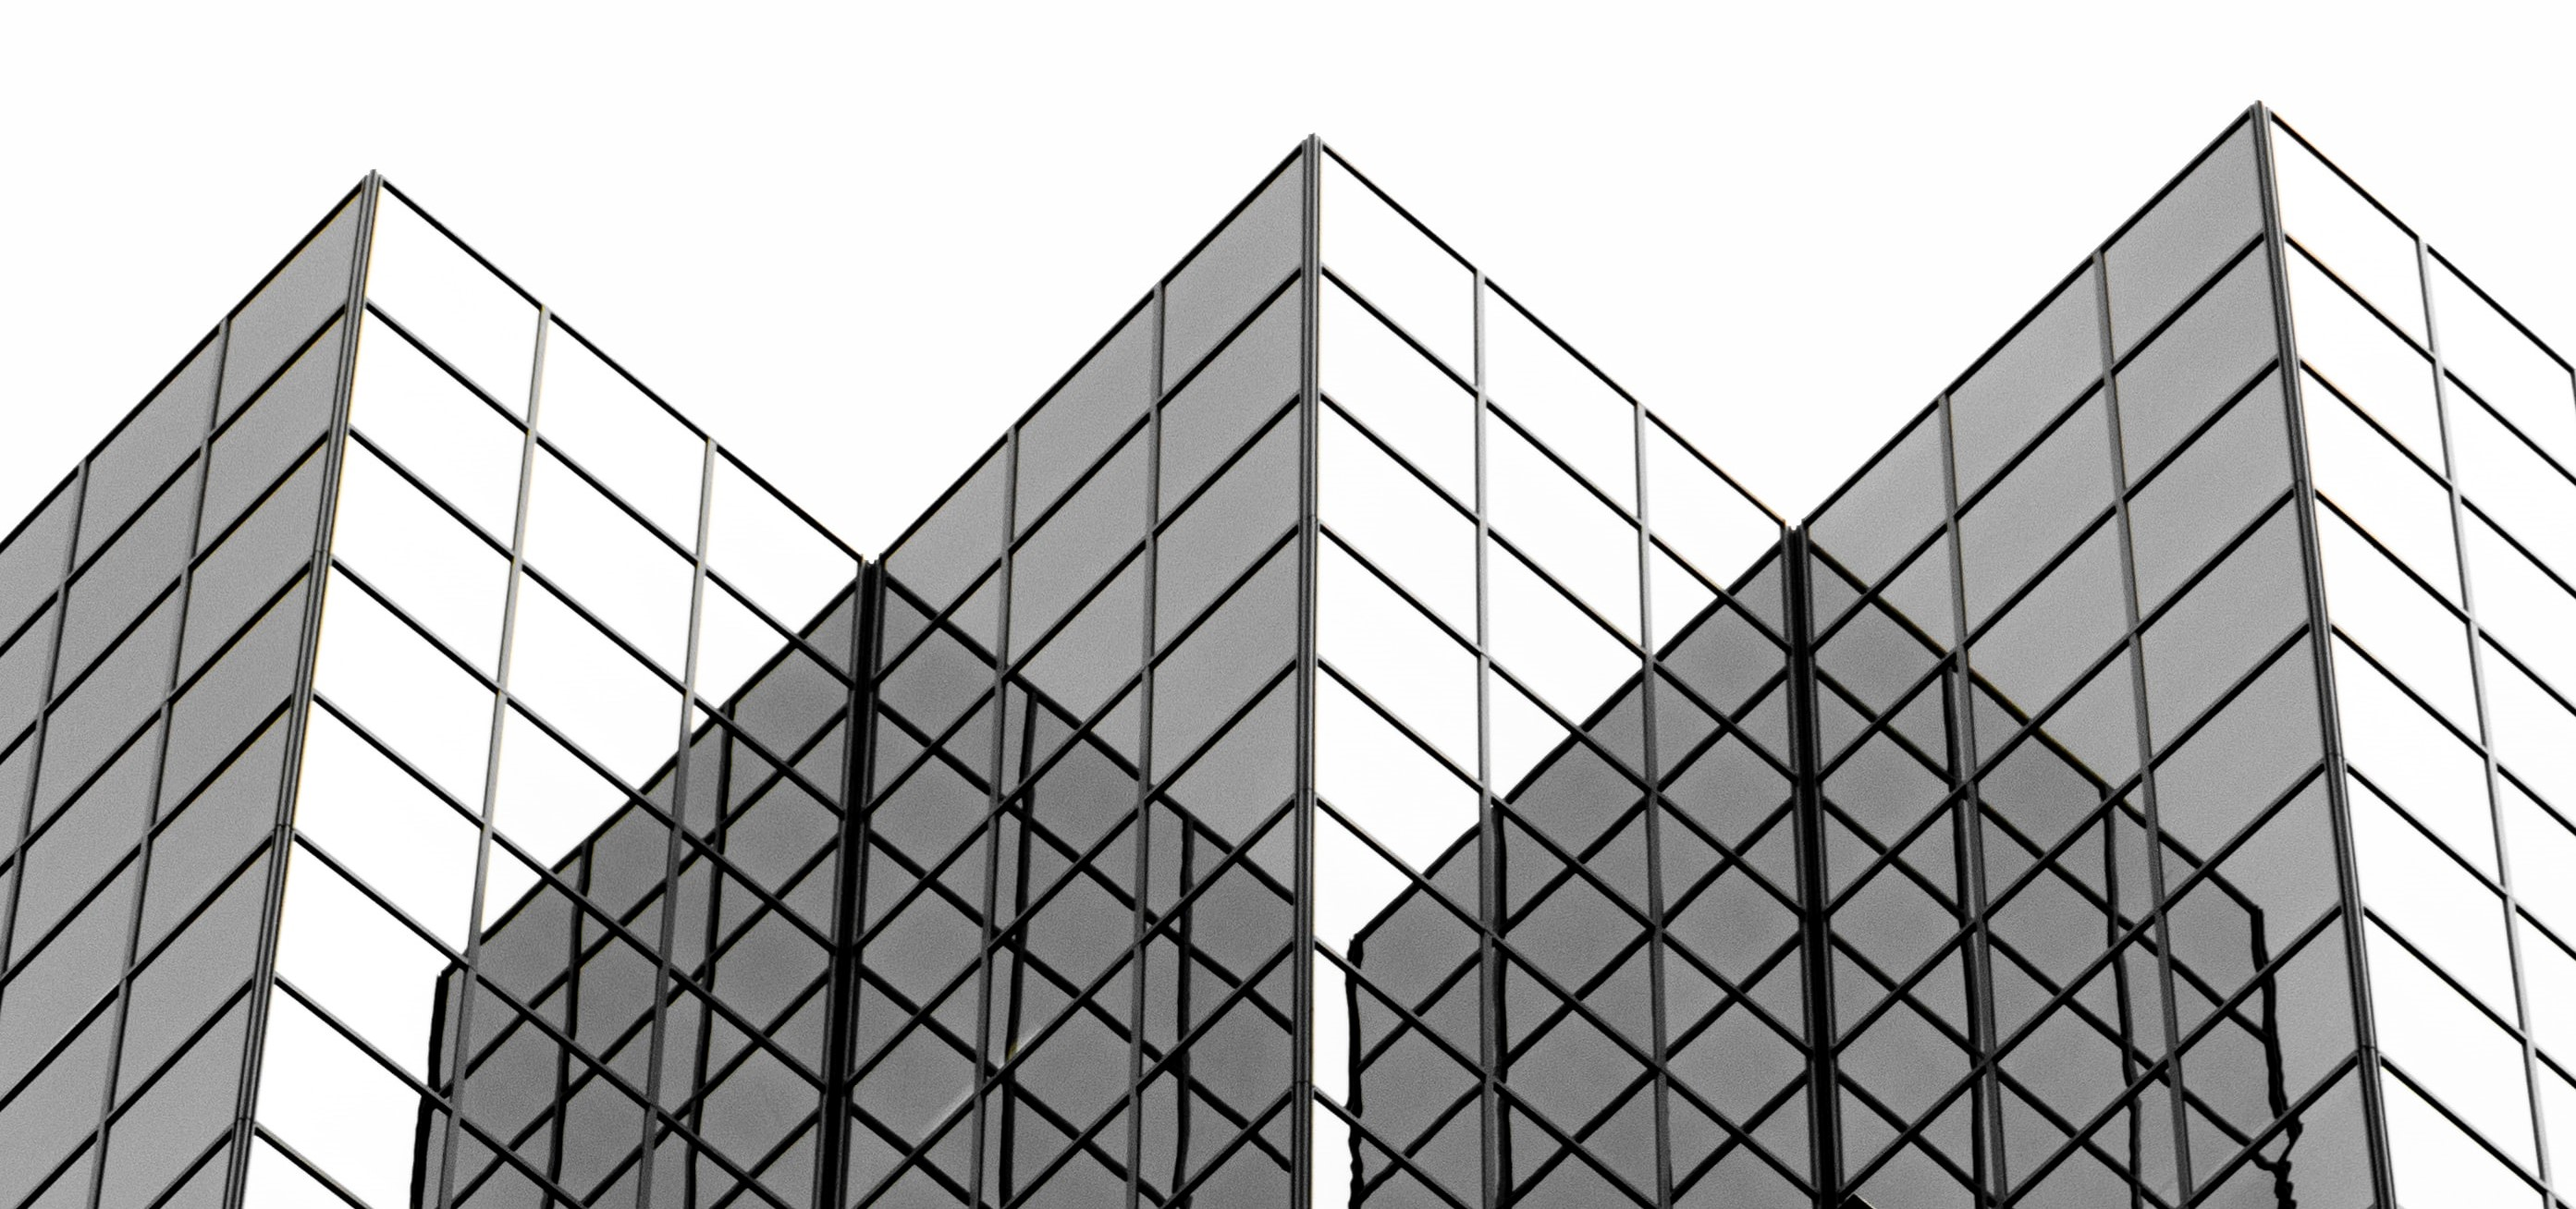
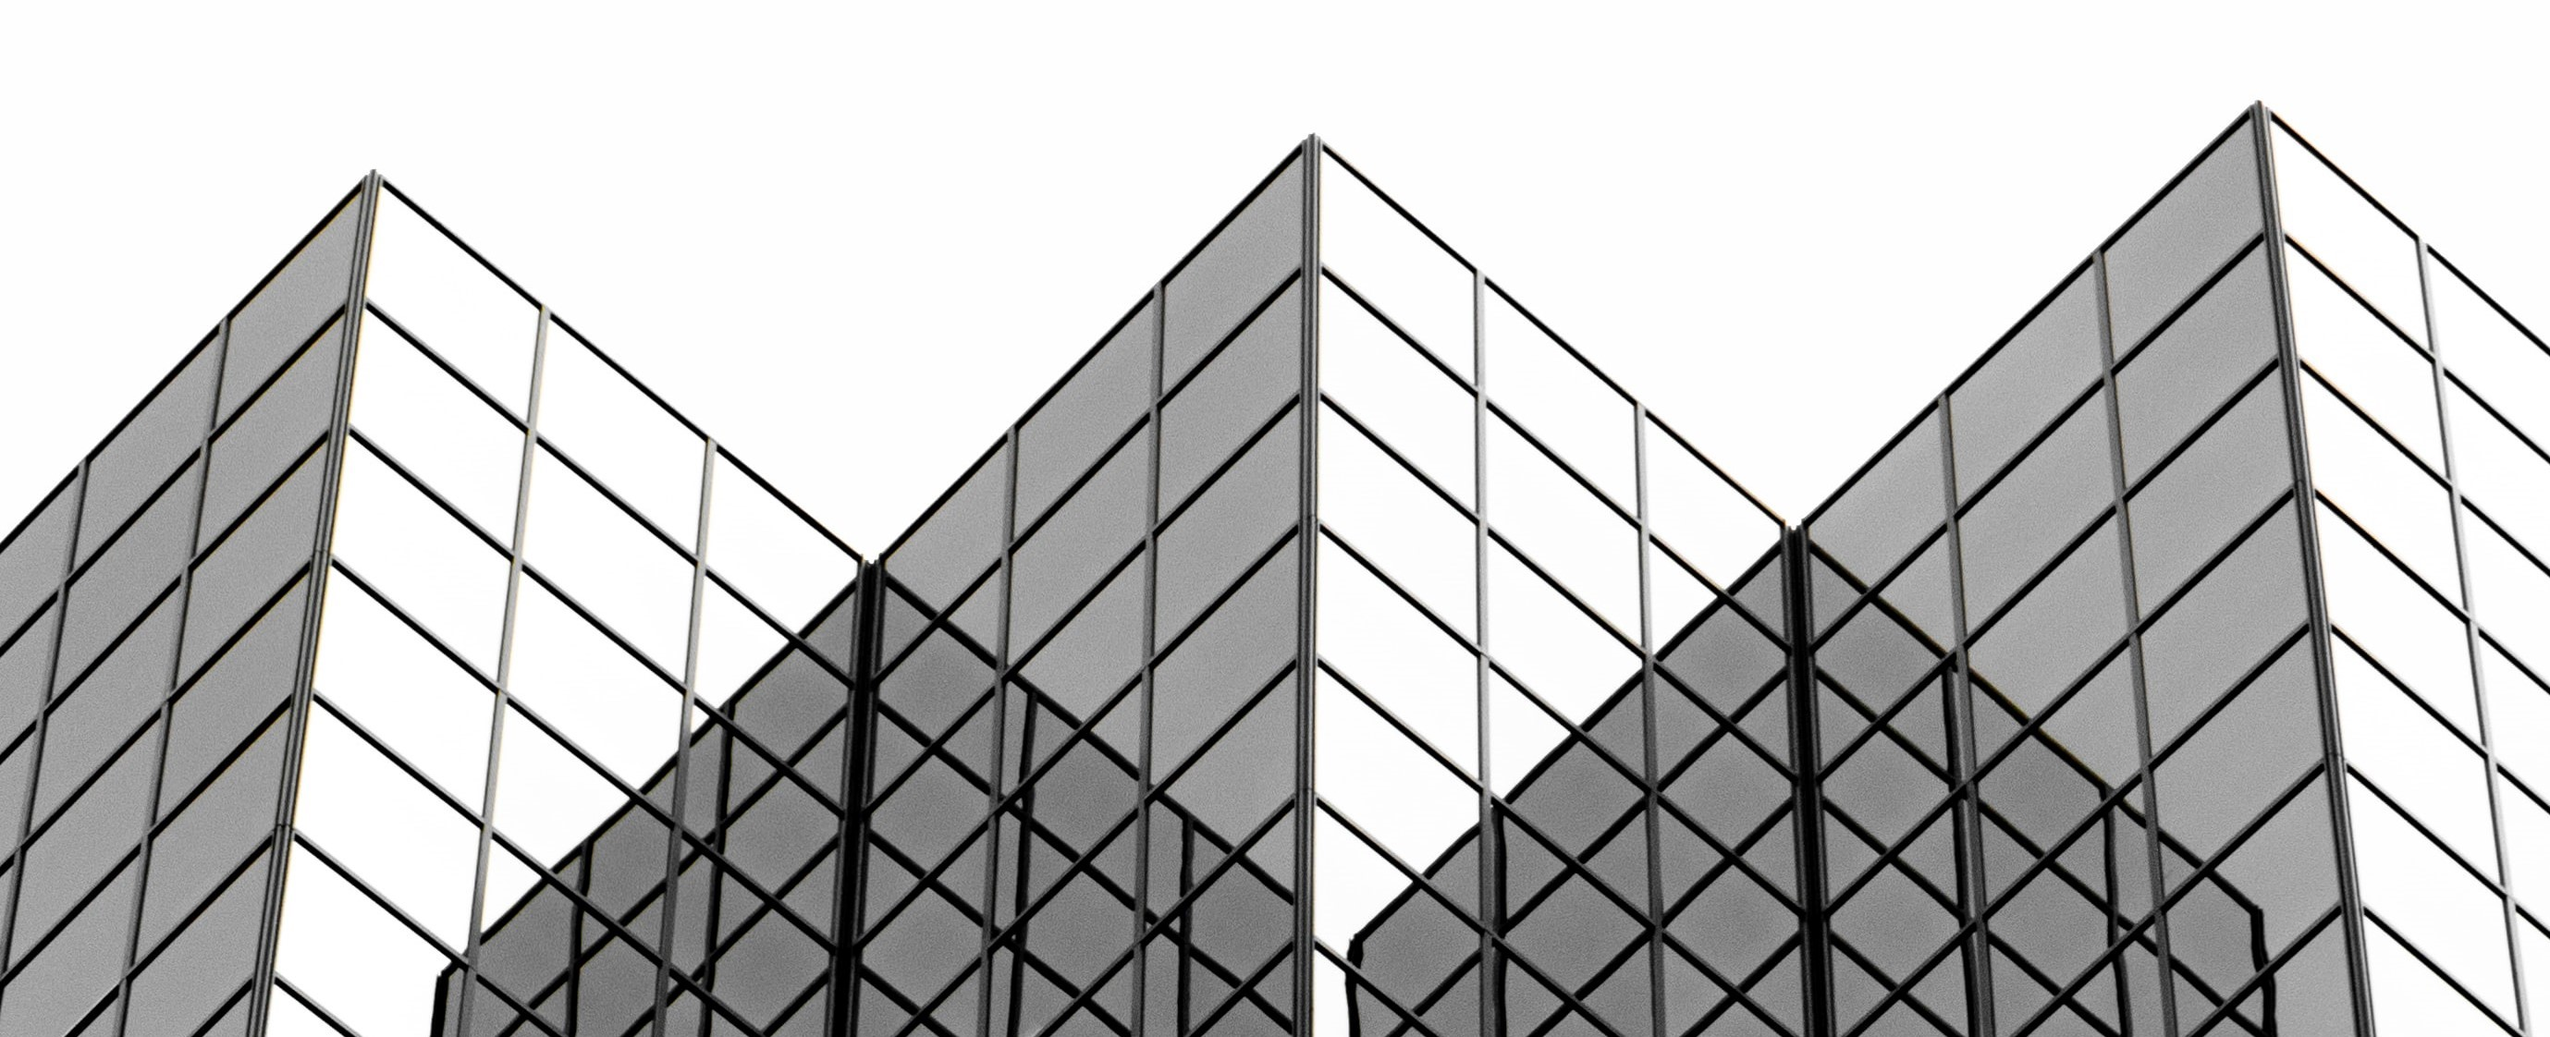
cambios 08/04/22

diff --git a/resources/views/diseño/objetivo.blade.php b/resources/views/diseño/objetivo.blade.php
@@ -34,6 +34,15 @@
           width: 100%;
           display: block;
         }
+        #fondo8{
+                    background-image: url('images/objetivo2_copia.jpg');
+                    background-position: center;
+                    background-repeat:no-repeat; 
+                    background-size: cover; 
+                    filter: brightness(0.8);
+                    width:100vw;
+                }
+
         /* margin-left: 0px;
             margin-right: 0px;
             border-right-width: 0px;
@@ -233,21 +242,11 @@
     </div>
     <div class="col-md-2"></div>
 </div>
-<div class="row mt-5"  id="fondo3" style="text-align:center">
-    {{-- <img style="width:130px;position: absolute;top: 35px;left: 630px;" src='{{asset("images/Isotipo-1.png")}}'> --}}
-    <div class="row poder" >
-            <div class="row solid" id="trans">
-                <p></p>
-                <p></p>
-                <p></p>
-                <a class="texto1" style="color:#b0831e;font-family:Kinlock Regular">
-                    EL PODER ES TUYO
-                </a>
-                <a class="texto2" style="color:white;">Recuerda; Siempre más y nunca menos </a>
-                <p></p>
-                <p></p>
-                <p></p>
-            </div>
+<div class="row mt-5" id="fondo8" style="text-align:center">
+    <div class="row mb-5 d-flex" >
+        <div class="col-12">
+            <img src='{{asset("images/poder.png")}}' class="img-fluid">
+        </div>
     </div>
 </div>
 <div class="row" style="text-align:center;background-color:white">
